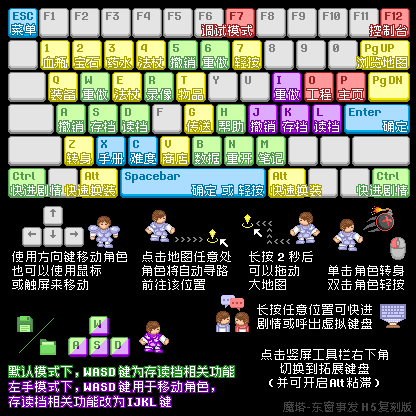
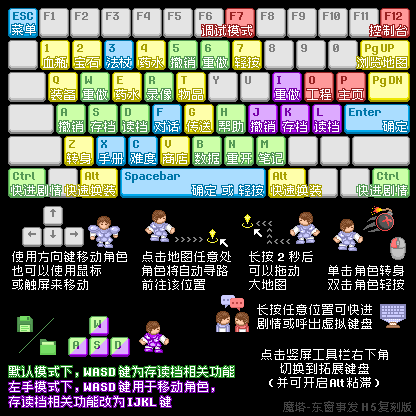
开局UI优化

Changed region(s): [[0.25, 0.0938, 0.4062, 0.25], [0.3438, 0.25, 0.4375, 0.3438]]

diff --git a/project/events.js b/project/events.js
@@ -3998,6 +3998,16 @@ var events_c12a15a8_c380_4b28_8144_256cba95f760 =
 								"condition": "((flag:SuperSteelKeyInvalid!==1)&&(flag:SuperSteelKeyAttained!==1))",
 								"true": [
 									{
+										"type": "hide",
+										"loc": [
+											[
+												4,
+												10
+											]
+										],
+										"floorId": "Treasure3"
+									},
+									{
 										"type": "setValue",
 										"name": "flag:SuperSteelKeyInvalid",
 										"value": "1"
@@ -4073,8 +4083,26 @@ var events_c12a15a8_c380_4b28_8144_256cba95f760 =
 										]
 									},
 									{
+										"type": "if",
+										"condition": "(flag:realHard<10)",
+										"true": [
+											{
+												"type": "setValue",
+												"name": "temp:prompt",
+												"value": "core.getInvalidColorString('FF4040') +'总难度10以上才可进入专属榜单'"
+											}
+										],
+										"false": [
+											{
+												"type": "setValue",
+												"name": "temp:prompt",
+												"value": "core.getInvalidColorString('40FF40') +'当前难度可以计入排行榜'"
+											}
+										]
+									},
+									{
 										"type": "choices",
-										"text": "\t[H5复刻版难度系统]总难度10以上方可计入排行榜\n\r[orange]当前总难度：${flag:realHard}/15\r[red]\n${flag:noFixSevereBug ? '启用\"恶性特性修复\"才可结算难度值' : \"\"}\n\r游戏过程中可随时呼出本界面",
+										"text": "\t[H5复刻版难度系统]${temp:prompt}\n\r[orange]当前总难度：${flag:realHard}/15\r[red]\n${flag:noFixSevereBug ? '启用\"恶性特性修复\"才可结算难度值' : \"\"}\n\r游戏过程中按C键可随时呼出本界面",
 										"choices": [
 											{
 												"text": "原版难度：${['简单','困难','噩梦'][flag:baseHard]} (难度+${flag:baseHard})",
@@ -4240,6 +4268,16 @@ var events_c12a15a8_c380_4b28_8144_256cba95f760 =
 																				"value": "0"
 																			},
 																			{
+																				"type": "show",
+																				"loc": [
+																					[
+																						4,
+																						10
+																					]
+																				],
+																				"floorId": "Treasure3"
+																			},
+																			{
 																				"type": "playSound",
 																				"name": "confirm.mp3"
 																			}
@@ -4251,7 +4289,6 @@ var events_c12a15a8_c380_4b28_8144_256cba95f760 =
 															{
 																"text": "体验优化 [+5难]",
 																"action": [
-																	"\t[当前选择的难度选项(+5难)：]* 5以内攻防扣减不可被衰弱避免[+1难]\n* 37F至多只能拾取6个宝物[+1难]\n* 85/-80F血瓶增益效果降低[+1难]\n* 万能铁门钥匙不再出现[+1难]\n* 85F起非领袖敌人+10%生命与25%伤害[+1难]",
 																	{
 																		"type": "setValue",
 																		"name": "flag:noFixSevereBug",
@@ -4298,15 +4335,25 @@ var events_c12a15a8_c380_4b28_8144_256cba95f760 =
 																		"value": "0"
 																	},
 																	{
+																		"type": "hide",
+																		"loc": [
+																			[
+																				4,
+																				10
+																			]
+																		],
+																		"floorId": "Treasure3"
+																	},
+																	{
 																		"type": "playSound",
 																		"name": "confirm.mp3"
-																	}
+																	},
+																	"\t[当前选择的难度选项(+5难)：]* 5以内攻防扣减不可被衰弱避免[+1难]\n* 37F至多只能拾取6个宝物[+1难]\n* 85/-80F血瓶增益效果降低[+1难]\n* 万能铁门钥匙不再出现[+1难]\n* 85F起非领袖敌人+10%生命与25%伤害[+1难]"
 																]
 															},
 															{
 																"text": "难度上榜 [+9难]",
 																"action": [
-																	"\t[当前选择的难度选项(+9难)：]* 20以内攻防扣减不可被衰弱避免[+2难]\n* 37F至多只能拾取3个宝物[+2难]\n* 85/-80F血瓶增益效果降低[+1难]\n* 紫血瓶效果*0.2,且部分不可拾取[+1难]\n* 万能铁门钥匙不再出现[+1难]\n* 51F起非领袖敌人+15%命/15%攻[+1难]\n* 85F起非领袖敌人+10%生命与25%伤害[+1难]",
 																	{
 																		"type": "setValue",
 																		"name": "flag:noFixSevereBug",
@@ -4353,9 +4400,20 @@ var events_c12a15a8_c380_4b28_8144_256cba95f760 =
 																		"value": "0"
 																	},
 																	{
+																		"type": "hide",
+																		"loc": [
+																			[
+																				4,
+																				10
+																			]
+																		],
+																		"floorId": "Treasure3"
+																	},
+																	{
 																		"type": "playSound",
 																		"name": "confirm.mp3"
-																	}
+																	},
+																	"\t[当前选择的难度选项(+9难)：]* 20以内攻防扣减不可被衰弱避免[+2难]\n* 37F至多只能拾取3个宝物[+2难]\n* 85/-80F血瓶增益效果降低[+1难]\n* 紫血瓶效果*0.2,且部分不可拾取[+1难]\n* 万能铁门钥匙不再出现[+1难]\n* 51F起非领袖敌人+15%命/15%攻[+1难]\n* 85F起非领袖敌人+10%生命与25%伤害[+1难]"
 																]
 															},
 															{
@@ -4366,7 +4424,6 @@ var events_c12a15a8_c380_4b28_8144_256cba95f760 =
 																	255
 																],
 																"action": [
-																	"\t[当前选择的难度选项(+13难)：]\r[#FF00FF]* 所有攻防扣减不可被衰弱避免[+3难]\n* 37F至多只能拾取1个宝物[+4难]\r\n* 85/-80F血瓶增益效果降低[+1难]\n* 紫血瓶效果*0.2,且部分不可拾取[+1难]\n* 万能铁门钥匙不再出现[+1难]\n* 51F起非领袖敌人+15%生命与15%攻击[+1难]\n* 85F起非领袖敌人+10%生命与25%伤害[+1难]\n* -58F起非领袖敌人+20%生命与20%攻击[+1难]",
 																	{
 																		"type": "setValue",
 																		"name": "flag:noFixSevereBug",
@@ -4413,9 +4470,20 @@ var events_c12a15a8_c380_4b28_8144_256cba95f760 =
 																		"value": "1"
 																	},
 																	{
+																		"type": "hide",
+																		"loc": [
+																			[
+																				4,
+																				10
+																			]
+																		],
+																		"floorId": "Treasure3"
+																	},
+																	{
 																		"type": "playSound",
 																		"name": "confirm.mp3"
-																	}
+																	},
+																	"\t[当前选择的难度选项(+13难)：]\r[#FF00FF]* 所有攻防扣减不可被衰弱避免[+3难]\n* 37F至多只能拾取1个宝物[+4难]\r\n* 85/-80F血瓶增益效果降低[+1难]\n* 紫血瓶效果*0.2,且部分不可拾取[+1难]\n* 万能铁门钥匙不再出现[+1难]\n* 51F起非领袖敌人+15%生命与15%攻击[+1难]\n* 85F起非领袖敌人+10%生命与25%伤害[+1难]\n* -58F起非领袖敌人+20%生命与20%攻击[+1难]"
 																]
 															},
 															{

diff --git a/project/floors/Tutorial1.js b/project/floors/Tutorial1.js
@@ -231,7 +231,7 @@ main.floors.Tutorial1=
                     "false": [
                         "\t[老人,man]\b[this]相信刚才获得血瓶的时候你已经发现了，\r[lime]血瓶是可以道具化的\r！",
                         "\t[老人,man]\b[this]一般情况下，拾取血瓶时将立刻回复生命值。但是，血瓶也可以\\d道具化\\d，直接存入背包以后再使用。",
-                        "\t[老人,man]\b[this]\r[lime]按下1键即可设置血瓶是否道具化！\r(手机玩家请点击下方\\i[toolbox]左起第3个图标进入物品栏，然后\r[lime]双击\\i[skill1]血瓶道具化图标\r进入界面)",
+                        "\t[老人,man]\b[this]\r[lime]按下1键即可设置血瓶是否道具化！\r(手机玩家请点击下方\\i[toolbox]左起第3个图标进入道具栏，然后\r[lime]双击\\i[skill1]血瓶道具化图标\r进入界面)",
                         "\t[老人,man]\b[this]现在，\r[yellow]请将血瓶设置为\"道具化\"状态\r，这样获取血瓶时会存入背包，而不是直接喝掉。",
                         {
                             "type": "setValue",
@@ -284,7 +284,7 @@ main.floors.Tutorial1=
                     }
                 ],
                 "false": [
-                    "\t[老人,man]\b[this]好了，现在可以使用血瓶增加生命了。同样\r[lime]按1快速使用背包中的血瓶\r。手机玩家按之前的方式进入血瓶道具化界面使用，也可直接在物品栏使用！",
+                    "\t[老人,man]\b[this]好了，现在可以使用血瓶增加生命了。同样\r[lime]按1快速使用背包中的血瓶\r。手机玩家按之前的方式进入血瓶道具化界面使用，也可直接在道具栏使用！",
                     {
                         "type": "setValue",
                         "name": "switch:A",
@@ -297,10 +297,10 @@ main.floors.Tutorial1=
         "12,3": [
             "\t[老人,man]\b[this]我上面是更多种类的血瓶还有宝石。",
             "\t[老人,man]\b[this]红宝石可以为你增加攻击，蓝宝石增加防御。和血瓶一样，宝石也可道具化。\r[lime]按2键设置宝石的道具化\r与使用背包中的宝石。",
-            "\t[老人,man]\b[this]对于手机玩家，在物品栏中选择\\i[I335]宝石道具化图标可进入相同的页面。",
+            "\t[老人,man]\b[this]对于手机玩家，在道具栏中选择\\i[I335]宝石道具化图标可进入相同的页面。",
             {
                 "type": "choices",
-                "text": "\t[老人,man]目前已讲解了血瓶宝石的作用/道具化/使用\r[lime]\n按1键\r使用\\i[redPotion]血瓶/设置血瓶道具化\r[lime]\n按2键\r使用\\i[blueGem]宝石/设置宝石道具化\n手机玩家在物品栏选择对应图标可进入相应的界面",
+                "text": "\t[老人,man]目前已讲解了血瓶宝石的作用/道具化/使用\r[lime]\n按1键\r使用\\i[redPotion]血瓶/设置血瓶道具化\r[lime]\n按2键\r使用\\i[blueGem]宝石/设置宝石道具化\n手机玩家在道具栏选择对应图标可进入相应的界面",
                 "choices": [
                     {
                         "text": "我明白了，下一步",
@@ -354,7 +354,7 @@ main.floors.Tutorial1=
                         "type": "if",
                         "condition": "(switch:A===1)",
                         "true": [
-                            "\t[老人,man]\b[this]请\r[lime]按2键进入宝石道具化页面\r，并在其中\r[yellow]使用加点数，全提升攻击力！\r（手机玩家请在物品栏双击\\d\\i[I335]宝石道具化\\d图标进入）",
+                            "\t[老人,man]\b[this]请\r[lime]按2键进入宝石道具化页面\r，并在其中\r[yellow]使用加点数，全提升攻击力！\r（手机玩家请在道具栏双击\\d\\i[I335]宝石道具化\\d图标进入）",
                             "\t[老人,man]\b[this]如果你全部的加点数用于提升攻击，\r[yellow]你将应该用有13点攻击力\r！"
                         ],
                         "false": [
@@ -418,7 +418,7 @@ main.floors.Tutorial1=
             }
         ],
         "8,6": [
-            "\t[老人,man]\b[this]我上方是一个大金币，\r[yellow]在物品栏使用它后\r可以获得数量客观的金币与经验。",
+            "\t[老人,man]\b[this]我上方是一个大金币，\r[yellow]在道具栏使用它后\r可以获得数量可观的金币与经验。",
             "\t[老人,man]\b[this]绝大部分消耗类物品都需要在背包使用，\r[lime]按T键\r即可呼出背包界面，\r[lime]选中对应物品并再次点击\r即可使用。（手机玩家请在下方工具栏中点击左起第3项进入）",
             {
                 "type": "choices",
@@ -560,7 +560,7 @@ main.floors.Tutorial1=
                         ],
                         "false": [
                             "\t[老人,man]\b[this]你获得了一把很厉害的\\i[sword5]神圣剑。但你需要\r[yellow]装备它\r才能发挥其功效。",
-                            "\t[老人,man]\b[this]\r[lime]按下Q键\r即可呼出装备界面（手机玩家需要\r[lime]双击\\i[toolbox]物品栏图标\r呼出装备界面），现在，请装备上\\i[sword5]神圣剑！"
+                            "\t[老人,man]\b[this]\r[lime]按下Q键\r即可呼出装备界面（手机玩家需要\r[lime]双击\\i[toolbox]道具栏图标\r呼出装备界面），现在，请装备上\\i[sword5]神圣剑！"
                         ]
                     }
                 ]
@@ -571,7 +571,7 @@ main.floors.Tutorial1=
                 "type": "if",
                 "condition": "core.hasFlag('weak')",
                 "true": [
-                    "\t[老人,man]\b[this]请先\r[yellow]在物品栏使用\\i[weakWine]解衰药水\r解除衰弱状态！此外，\r[lime]按下E键\r也可以快捷使用各类异常状态解药！",
+                    "\t[老人,man]\b[this]请先\r[yellow]在道具栏使用\\i[weakWine]解衰药水\r解除衰弱状态！此外，\r[lime]按下E键\r也可以快捷使用各类异常状态解药！",
                     {
                         "type": "if",
                         "condition": "(blockId:4,13==='weakWine')",
@@ -851,7 +851,7 @@ main.floors.Tutorial1=
                 ],
                 "false": [
                     "\t[老人,man]\b[this]刚刚经过路障的时候，由于更低的难度效果已生效，所以\r[#FF60FF]之前的难度项\"熔岩网扣血效果遵循原版\"也不可用了\r！",
-                    "\t[老人,man]\b[this]您可以\r[lime]按C键或通过背包\r打开难度设置界面验证：相关的难度选项是否已经失效！",
+                    "\t[老人,man]\b[this]您可以\r[lime]按C键或通过背包\r打开难度设置界面验证：相关的难度选项已经失效！",
                     {
                         "type": "setValue",
                         "name": "switch:A",

diff --git a/project/items.js b/project/items.js
@@ -552,7 +552,7 @@ var items_296f5d02_12fd_4166_a7c1_b5e830c9ee3a =
 	"skill1": {
 		"cls": "constants",
 		"name": "血瓶道具化(快捷键1)",
-		"text": "血瓶可以设置直接使用或放入背包，快捷键1。手机玩家可通过物品栏使用本道具呼出界面。",
+		"text": "血瓶可以设置直接使用或放入背包，快捷键1。手机玩家可通过道具栏使用本道具呼出界面。",
 		"hideInReplay": true,
 		"useItemEffect": "core.insertCommonEvent(\"SetPotionItemized\", [\"Potion\"]);",
 		"canUseItemEffect": "true"
@@ -590,7 +590,7 @@ var items_296f5d02_12fd_4166_a7c1_b5e830c9ee3a =
 	"I335": {
 		"cls": "constants",
 		"name": "宝石道具化(快捷键2)",
-		"text": "宝石可以设置直接使用或放入背包，快捷键2。手机玩家可通过物品栏使用本道具呼出界面。",
+		"text": "宝石可以设置直接使用或放入背包，快捷键2。手机玩家可通过道具栏使用本道具呼出界面。",
 		"hideInReplay": true,
 		"useItemEffect": "core.insertCommonEvent(\"SetPotionItemized\", [\"Gem\"]);",
 		"canUseItemEffect": "true"
@@ -598,7 +598,7 @@ var items_296f5d02_12fd_4166_a7c1_b5e830c9ee3a =
 	"I336": {
 		"cls": "constants",
 		"name": "药水快捷使用(快捷键E)",
-		"text": "药水可以快捷使用，快捷键E。手机玩家可通过物品栏使用本道具呼出界面。",
+		"text": "药水可以快捷使用，快捷键E。手机玩家可通过道具栏使用本道具呼出界面。",
 		"hideInReplay": true,
 		"useItemEffect": "core.insertCommonEvent(\"SetPotionItemized\", [\"Wine\"]);",
 		"canUseItemEffect": "true"

diff --git a/project/floors/MT0.js b/project/floors/MT0.js
@@ -41,6 +41,13 @@ main.floors.MT0=
         },
         {
             "type": "waitAsync"
+        },
+        {
+            "type": "tip",
+            "text": "已自动存档！"
+        },
+        {
+            "type": "autoSave"
         }
     ],
     "parallelDo": "",
@@ -161,7 +168,7 @@ main.floors.MT0=
         ],
         "6,9": [
             "\t[隐者,recluse]\b[this]按H键可以查看本魔塔的全部快捷键。",
-            "\t[隐者,recluse]\b[this]比较重要的快捷键有：\nX - 怪物手册\nG - 楼层传送器\nT - 打开物品栏\nQ - 装备栏（也可双击状态栏中的物品栏图标）",
+            "\t[隐者,recluse]\b[this]比较重要的快捷键有：\nX - 怪物手册\nG - 楼层传送器\nT - 打开道具栏\nQ - 装备栏（也可双击状态栏中的道具栏图标）",
             "\t[隐者,recluse]\b[this]比较重要的快捷键有：\nV - 使用快捷商店\nE - 异常状态解除药水使用\nC - 修改难度选项\n1/2 - 血瓶/宝石道具化控制\nPgUp/PgDn - 浏览全塔地图",
             "\t[隐者,recluse]\b[this]使用PgUp/PgDn浏览地图时，按X也可呼出怪物手册，按G将尝试使用楼层传送器前往。",
             "\t[隐者,recluse]\b[this]原版魔塔并没有PgUp/PgDn浏览地图的功能，\r[#FF60FF]首次游玩魔塔时滥用该功能可能会失去探索的乐趣，请酌情使用\r！",

diff --git a/project/data.js b/project/data.js
@@ -829,8 +829,18 @@ var data_a1e2fb4a_e986_4524_b0da_9b7ba7c0874d =
 		],
 		"startText": [
 			{
+				"type": "setValue",
+				"name": "item:skill1",
+				"value": "1"
+			},
+			{
+				"type": "setValue",
+				"name": "item:I335",
+				"value": "1"
+			},
+			{
 				"type": "confirm",
-				"text": "是否查看H5复刻版专属新手教程？\n建议不熟悉H5魔塔的玩家查看\n建议未玩过原版东窗事发的玩家查看",
+				"text": "是否查看H5复刻版专属新手教程？",
 				"yes": [
 					{
 						"type": "setValue",
@@ -995,8 +1005,7 @@ var data_a1e2fb4a_e986_4524_b0da_9b7ba7c0874d =
 				"norefresh": true
 			},
 			"\t[H5复刻作者]本H5复刻版有专属难度系统，\n您可以选择各项难度tag获得相应的难度点数。",
-			"\t[H5复刻作者]最高的可能难度点数为15；\n从难度10起，您的分数将单独出现在对应的排行榜上。",
-			"\t[H5复刻作者]接下来将呼出本H5复刻版的专属难度系统页面。\n这些tag也可在游戏中更改，直到其效果实际生效。",
+			"\t[H5复刻作者]最高的可能难度点数为15；\r[lime]\n从难度10起，您的分数将单独出现在专属榜单上！\r\n接下来将呼出本H5复刻版的专属难度系统页面。",
 			{
 				"type": "insert",
 				"name": "难度配置",

diff --git a/project/floors/MT35.js b/project/floors/MT35.js
@@ -65,8 +65,8 @@ main.floors.MT35=
         "7,0": [
             "\t[H5复刻作者]再次提示，游戏过程中可以随时\r[lime]按C键或通过背包\r呼出难度设置界面，可以在游戏中动态难度。",
             "\t[H5复刻作者]如果当前已生效的效果，\r[#FF60FF]违反了更高难度选项的要求\r，那么更高的难度选项将\r[#FF60FF]不再可用\r！",
-            "\t[H5复刻作者]游戏通关时，会自动把难度重设为当前可能的最高难度。",
-            "\t[H5复刻作者]关于难度系统的使用教程，“新手教程”有更消息的使用指导，可以在标题页面开始新游戏进入。"
+            "\t[H5复刻作者]游戏通关时，会自动把难度重设为当前可能的最高难度。\n\r[#FF40FF]难度10以上会有专属榜单！",
+            "\t[H5复刻作者]关于难度系统的使用教程，“新手教程”有更详细的使用指导，可以在标题页面开始新游戏进入。"
         ]
     },
     "changeFloor": {

diff --git a/project/plugins.js b/project/plugins.js
@@ -1623,8 +1623,8 @@ var plugins_bb40132b_638b_4a9f_b028_d3fe47acc8d1 =
 		}
 	}
 
-	this.getInvalidColorString = function () {
-		return "\\r[\#999999]";
+	this.getInvalidColorString = function (colorCode) {
+		return colorCode ? "\\r[\#" + colorCode + "]" : "\\r[\#999999]";
 	}
 
 	this.getRealCombo = function (basicCombo) {
